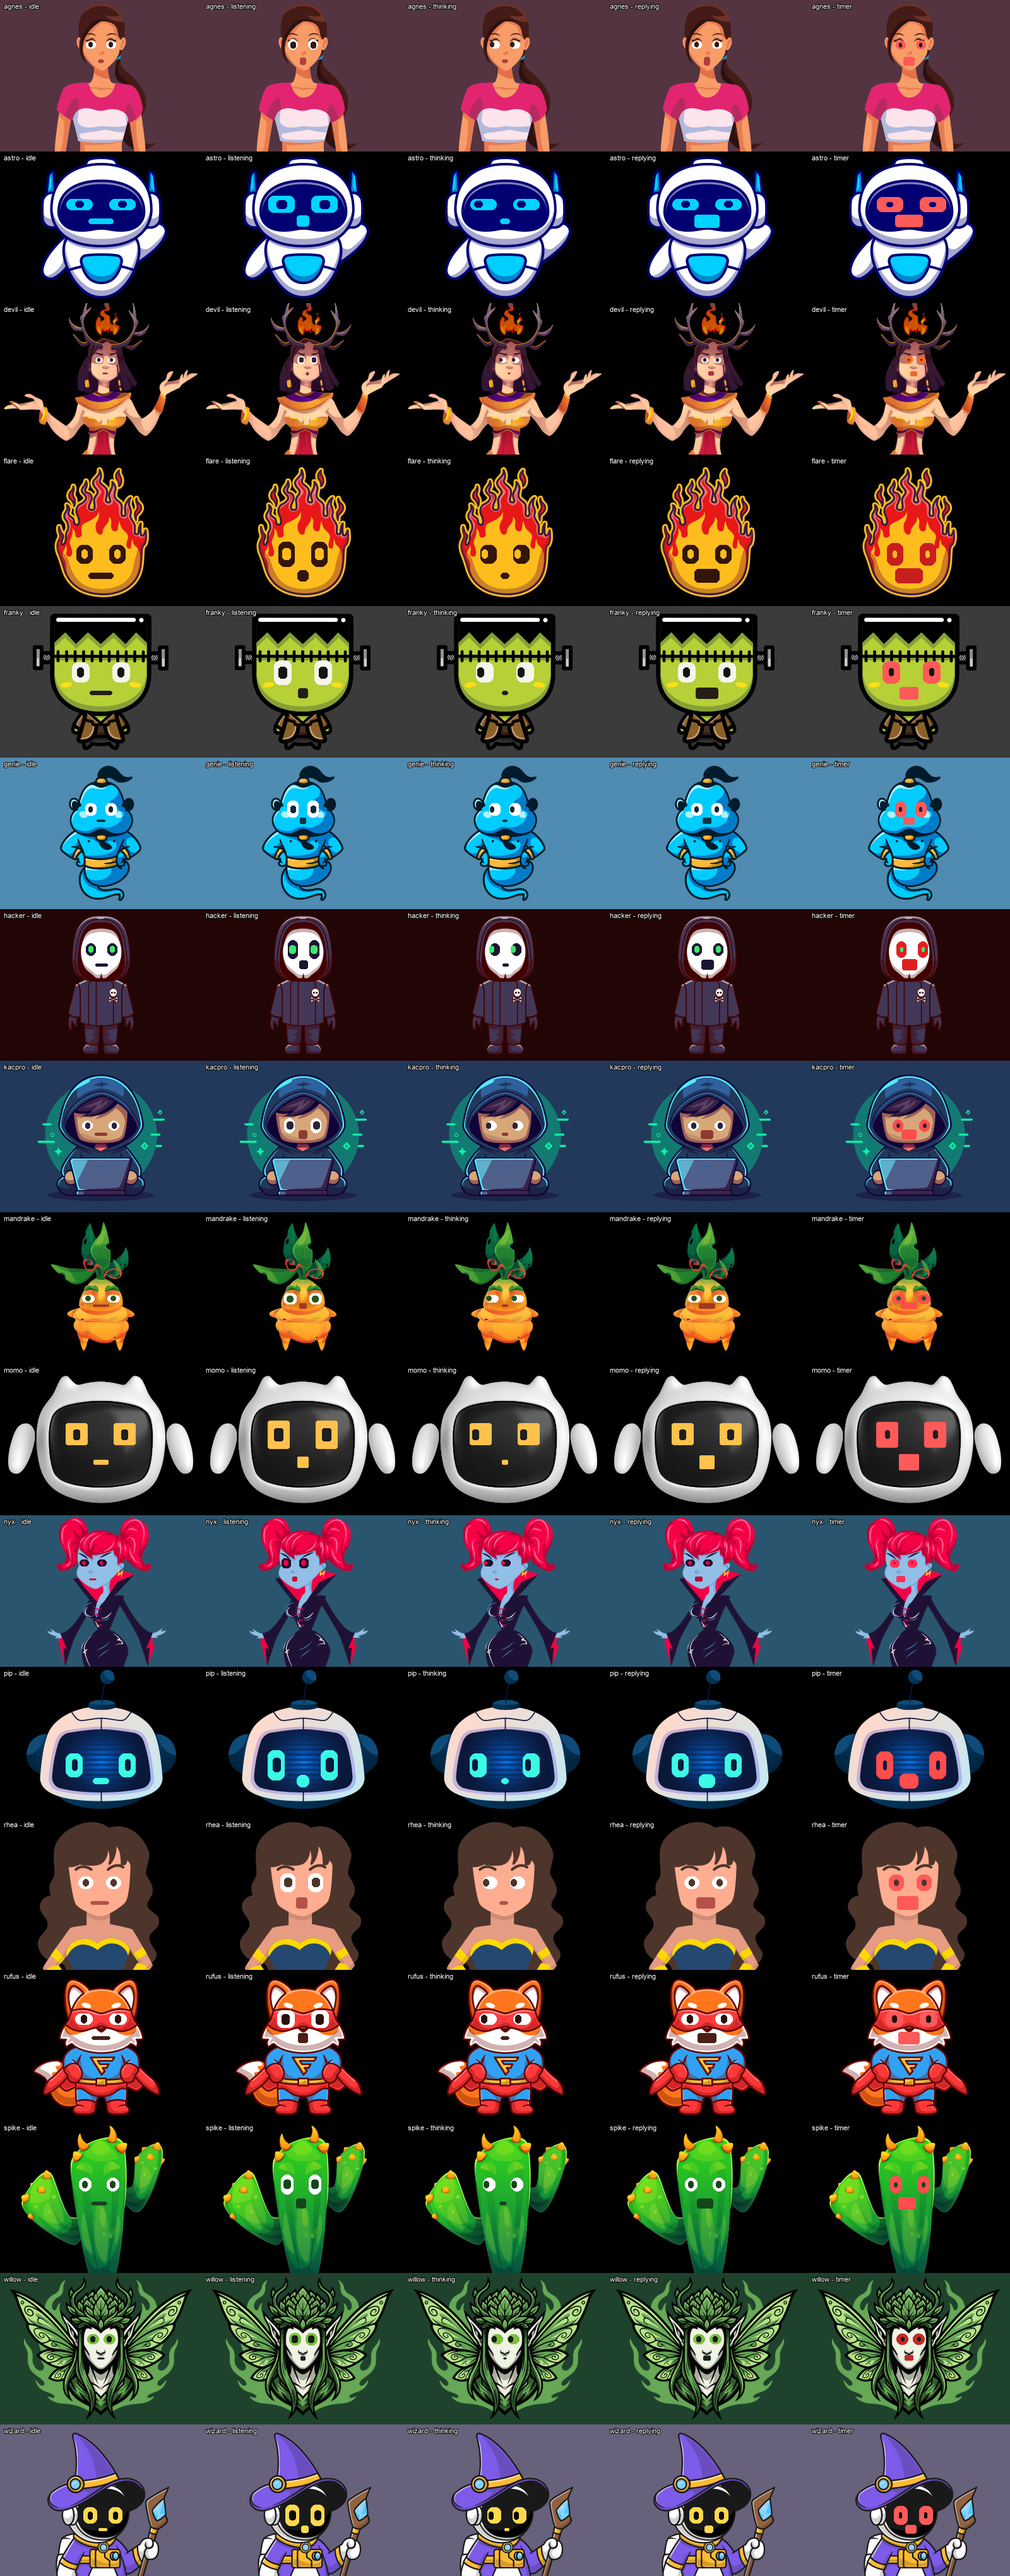
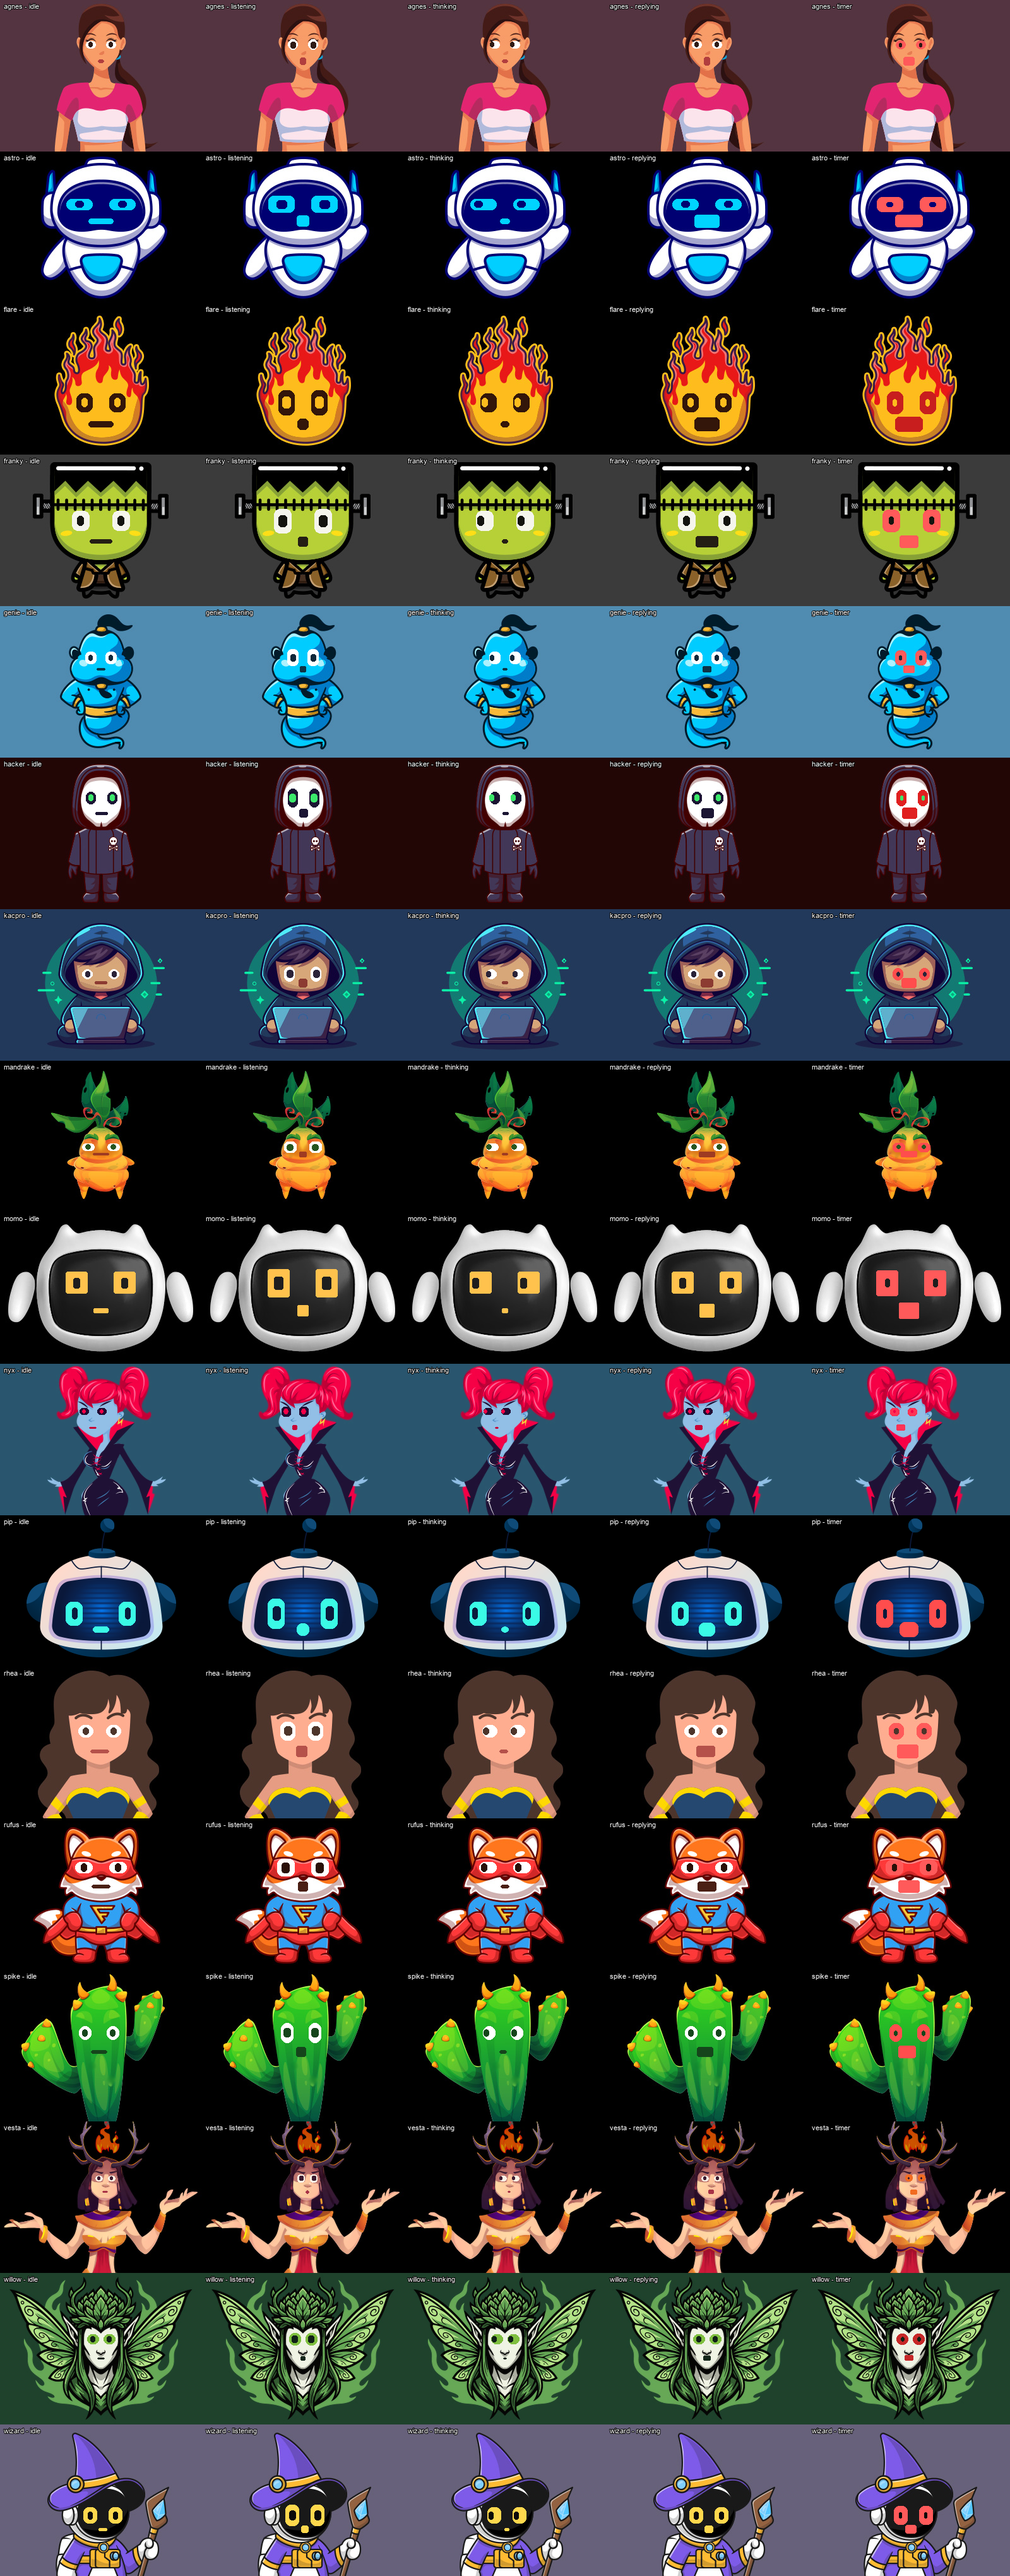
Rename the Devil character to Vesta
Same artwork, same measurements, a name instead of a noun - every other
character in the set has one, and `hacker` is the exception rather than
the rule.

Vesta is the Roman goddess of the hearth, which is the fire that keeps a
house: she has a flame on her head and now runs a thermostat. The README
entry leans on that rather than on horns.

Anyone running `assistant: devil` has to change that line to `vesta`. The
YAML, the PNG and the demo clip move together, since the character file
is found by name and the PNG is fetched by URL.

diff --git a/base/faces/README.md b/base/faces/README.md
@@ -10,7 +10,7 @@ config can point a phase at it without knowing which one is in use.
 
 ![The seventeen characters with artwork, across five phases](../assets/characters.png)
 
-Animated, one clip each: [aura](../assets/demo/demo-aura.gif) · [bit](../assets/demo/demo-bit.gif) · [pixel](../assets/demo/demo-pixel.gif) · [iris](../assets/demo/demo-iris.gif) · [rain](../assets/demo/demo-rain.gif) · [crt](../assets/demo/demo-crt.gif) · [pip](../assets/demo/demo-pip.gif) · [astro](../assets/demo/demo-astro.gif) · [momo](../assets/demo/demo-momo.gif) · [franky](../assets/demo/demo-franky.gif) · [wizard](../assets/demo/demo-wizard.gif) · [genie](../assets/demo/demo-genie.gif) · [flare](../assets/demo/demo-flare.gif) · [kitt](../assets/demo/demo-kitt.gif) · [nixie](../assets/demo/demo-nixie.gif) · [scope](../assets/demo/demo-scope.gif) · [vu](../assets/demo/demo-vu.gif) · [rhea](../assets/demo/demo-rhea.gif) · [rufus](../assets/demo/demo-rufus.gif) · [agnes](../assets/demo/demo-agnes.gif) · [kacpro](../assets/demo/demo-kacpro.gif) · [hacker](../assets/demo/demo-hacker.gif) · [mandrake](../assets/demo/demo-mandrake.gif) · [spike](../assets/demo/demo-spike.gif) · [willow](../assets/demo/demo-willow.gif) · [nyx](../assets/demo/demo-nyx.gif) · [devil](../assets/demo/demo-devil.gif)
+Animated, one clip each: [aura](../assets/demo/demo-aura.gif) · [bit](../assets/demo/demo-bit.gif) · [pixel](../assets/demo/demo-pixel.gif) · [iris](../assets/demo/demo-iris.gif) · [rain](../assets/demo/demo-rain.gif) · [crt](../assets/demo/demo-crt.gif) · [pip](../assets/demo/demo-pip.gif) · [astro](../assets/demo/demo-astro.gif) · [momo](../assets/demo/demo-momo.gif) · [franky](../assets/demo/demo-franky.gif) · [wizard](../assets/demo/demo-wizard.gif) · [genie](../assets/demo/demo-genie.gif) · [flare](../assets/demo/demo-flare.gif) · [kitt](../assets/demo/demo-kitt.gif) · [nixie](../assets/demo/demo-nixie.gif) · [scope](../assets/demo/demo-scope.gif) · [vu](../assets/demo/demo-vu.gif) · [rhea](../assets/demo/demo-rhea.gif) · [rufus](../assets/demo/demo-rufus.gif) · [agnes](../assets/demo/demo-agnes.gif) · [kacpro](../assets/demo/demo-kacpro.gif) · [hacker](../assets/demo/demo-hacker.gif) · [mandrake](../assets/demo/demo-mandrake.gif) · [spike](../assets/demo/demo-spike.gif) · [willow](../assets/demo/demo-willow.gif) · [nyx](../assets/demo/demo-nyx.gif) · [vesta](../assets/demo/demo-vesta.gif)
 
 The preview image above shows only the characters that use artwork; `aura`, `bit`, `pixel`,
 `iris`, `rain`, `crt`, `kitt`, `nixie`, `scope` and `vu` draw themselves and are in the clips.
@@ -47,7 +47,7 @@ in its clip without a build.
 | **KacPRO** | Hood, laptop, green glow | White cartoon eyes with dark pupils on skin. The hood leaves 34 px of usable height between the fringe and the chin, so the eyes are wider than they are tall and the mouth opens by 14 rather than 22. |
 | **hacker** | Empty hood, skull badge | The only DARK-eyed character with BRIGHT pupils: black shapes on the blank white face with a green dot inside, which reads as a glow. The face sits 50 px above the frame's centre, so every offset here is a large negative number. |
 | **Mandrake** | Root in a pot, leaves on top | White eyes with green pupils. The artwork arrived asleep - closed-eye arcs and lips painted on the bulb - and those were erased, unlike rhea's, because a drawn eye on top of a painted closed one reads as a bruise. The two dark leaves above were kept and work as eyebrows. The tightest face in the set: 21 px between the leaves and the collar. |
-| **Devil** | Horns, a flame, a very level stare | White eyes with dark plum pupils. The artwork kept the brows, the nose AND the eye shadow - two soft blocks under the brows - and that shadow is the best landmark on the face, because it is exactly where the eyes were. Her face sits right of frame centre, so the axis is 167 rather than 160. |
+| **Vesta** | Horns, a flame, a very level stare | White eyes with dark plum pupils. The artwork kept the brows, the nose AND the eye shadow - two soft blocks under the brows - and that shadow is the best landmark on the face, because it is exactly where the eyes were. Her face sits right of frame centre, so the axis is 167 rather than 160. |
 | **Willow** | Emblem: wings, leaf crown, pale mask | Green eyes with a near-black pupil, on a mask carrying nothing but a nose. The artwork is symmetric, so the mirror axis really is x 160 and the nose is a third landmark that checks the scale rather than something to compromise with. The eyes are deliberately LARGER than the original's proportions give - at this size the measured numbers read as beady. |
 | **Nyx** | Red pigtails, blue skin, black cape | Dark violet eyes with red pupils. The artwork keeps the angry slanted eyebrows and the nose, and those do the acting for free. Her head is turned, so the eyes want an axis at 148 and the mouth one at 144; the engine's single axis splits it at 147. |
 | **Spike** | Cactus: a head on a stem, an arm each side, orange spines on top | White eyes with a dark green pupil and mouth. The roomiest artwork face here, so it carries the largest eyes of any character with a picture. The stem leans: its mirror axis is x 157, not 160. |

diff --git a/README.md b/README.md
@@ -172,8 +172,8 @@ being on screen belong to the character. Name any of them in lower case.
     <td><h3>Mandrake</h3>A root that climbed out of the pot and stayed. Sleepy under its leaves, slow to open its eyes, and quietly pleased to be indoors where it is warm.</td>
   </tr>
   <tr>
-    <td width="290"><img src="base/assets/demo/demo-devil.gif" width="272" alt="Devil"></td>
-    <td><h3>Devil</h3>The thermostat answers to her now, and so, increasingly, does everyone else. Grants your timers rather than sets them, and has firm views on how warm a kitchen ought to be kept.</td>
+    <td width="290"><img src="base/assets/demo/demo-vesta.gif" width="272" alt="Vesta"></td>
+    <td><h3>Vesta</h3>Goddess of the hearth, retired into a smart home and quietly pleased with the upgrade. The thermostat answers to her now, she grants your timers rather than setting them, and she has firm views on how warm a kitchen ought to be kept.</td>
   </tr>
   <tr>
     <td width="290"><img src="base/assets/demo/demo-willow.gif" width="272" alt="Willow"></td>
@@ -243,7 +243,7 @@ base/
     rufus, agnes, kacpro,
     hacker, mandrake,
     spike, willow, nyx,
-    devil
+    vesta
     picker.yaml            # optional: an "Assistant" select, four to switch between
     aura, bit, iris,       # these draw themselves, no artwork at all
     crt, kitt, nixie,

diff --git a/CHANGELOG.md b/CHANGELOG.md
@@ -285,7 +285,7 @@ their alarm, the touchscreen, the home screen and the animated character.
   indistinguishable from a broken screen. Unsupported buttons are painted dim
   and do nothing when tapped. Cost of both: 39 KB of flash, to 32.9%.
 
-- **`devil`**, taking the cast to 28. Her artwork kept the eye SHADOW as well
+- **`vesta`**, taking the cast to 28. Her artwork kept the eye SHADOW as well
   as the brows and the nose, and that shadow is what places the eyes: it is
   where they were, so it beats any proportion of a face in general. Her face
   also sits right of frame centre, which is what `face_center_x` is for.
